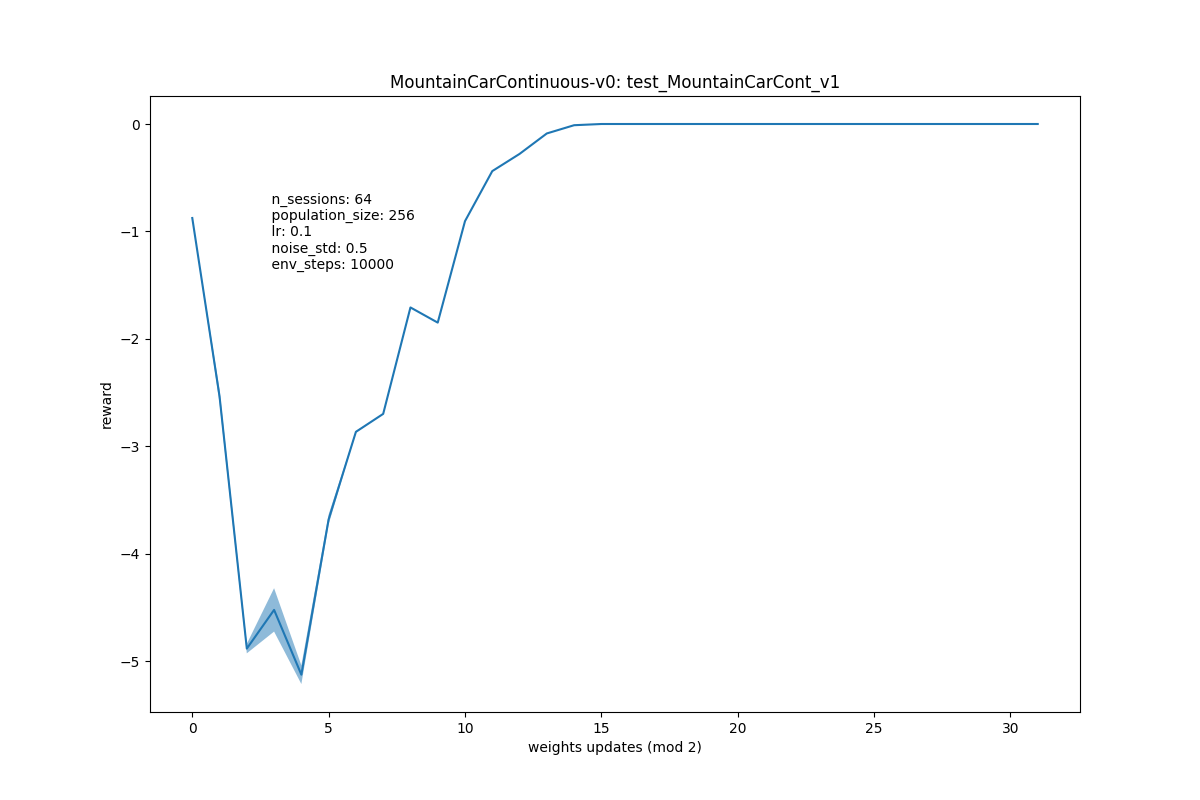
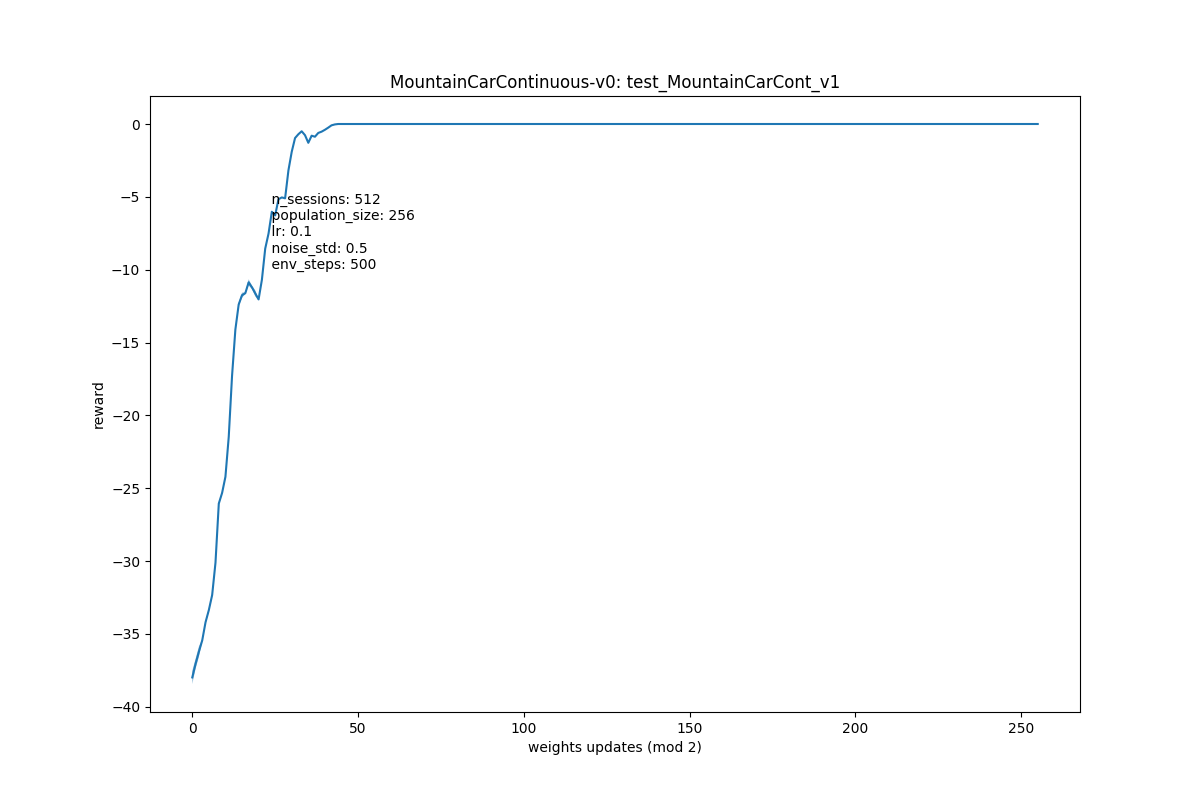
mountain car

diff --git a/evaluation.py b/evaluation.py
@@ -2,20 +2,24 @@ import numpy as np
 
 from joblib import delayed
 
+CONTINUOUS_ENVS = ('LunarLanderContinuous', "MountainCarContinuous", "BipedalWalker")
 
 def eval_policy(policy, env, n_steps=200):
     total_reward = 0
-
+    print(env)
+    
     obs = env.reset()
     for i in range(n_steps):
-        if env.spec._env_name in ('LunarLanderContinuous', "MountainCarContinuous"):
+        if env.spec._env_name in CONTINUOUS_ENVS:
             action = policy.predict(np.array(obs).reshape(1, -1), scale="tanh")
         else:
             action = policy.predict(np.array(obs).reshape(1, -1), scale="softmax")
 
         new_obs, reward, done, _ = env.step(action)
         
-        # if env.spec._env_name == 'MountainCarContinuous': 
+        # if env.spec._env_name == 'MountainCarContinuous':
+        #     reward = reward + 10 * abs(new_obs[1])
+            # TODO: add novelity search reward (https://lilianweng.github.io/lil-log/2019/09/05/evolution-strategies.html)
             # метод потенциалов https://habr.com/ru/company/hsespb/blog/444428/
             # reward = reward + 300 * (0.99 * abs(new_obs[1]) - abs(obs[1]))
 

diff --git a/tests/bipedal_walker.py b/tests/bipedal_walker.py
@@ -1,0 +1,30 @@
+import sys
+import pickle 
+
+sys.path.append('..')
+
+from training import run_experiment
+
+# ISSUE: deepcopy(env) not copy .spec and .spec._env_name, so wait
+def test():
+    test_config = {
+        "experiment_name": "test_BipedalWalker_v1",
+        "plot_path": "../plots/",
+        "model_path": "../models/",
+        "env": "BipedalWalker-v2",
+        "n_sessions": 5,
+        "env_steps": 1600, 
+        "population_size": 256,
+        "learning_rate": 0.05,
+        "noise_std": 0.05,
+        "hidden_sizes": (64, 64)
+    }
+    
+    policy = run_experiment(test_config, n_jobs=2)
+
+    with open(f"{test_config['model_path']}{test_config['experiment_name']}.pkl", "wb") as file:
+        pickle.dump(policy, file)
+
+
+if __name__ == "__main__":
+    test()

diff --git a/tests/mountain_car_cont.py b/tests/mountain_car_cont.py
@@ -6,14 +6,15 @@ sys.path.append('..')
 from training import run_experiment
 
 # MountainCar-v0 defines "solving" as getting average reward of -110.0 over 100 consecutive trials.
+# TODO: wait for novelity search
 def test():
     test_config = {
-        "experiment_name": "test_MountainCarCont_v1",
+        "experiment_name": "test_MountainCarCont_v2",
         "plot_path": "../plots/",
         "model_path": "../models/",
         "env": "MountainCarContinuous-v0",
-        "n_sessions": 512,
-        "env_steps": 500, 
+        "n_sessions": 128,
+        "env_steps": 200, 
         "population_size": 256,
         "learning_rate": 0.1,
         "noise_std": 0.5,

diff --git a/training.py b/training.py
@@ -6,6 +6,7 @@ import numpy as np
 
 from tqdm import tqdm
 from joblib import Parallel
+from copy import copy
 from collections import defaultdict
 
 from gym import wrappers

diff --git a/README.md b/README.md
@@ -1,11 +1,12 @@
 # Evolution Strategies OpenAI
 
-Implementation is strictly for educational purposes, not distributed and not very effitient (yet), but it works.
-
+Implementation is strictly for educational purposes and not distributed (as in paper), but it works.
 
 ## Experiments
 
 ### CartPole
+
+Solved quickly and easily, especially if the population size is increased. However it is necessary to control the learning rate: it is better to put it less, as well as noise std: in this task there is no need to explore, it is enough to get a lot of feedback as a reward for natural gradient estimation. 
 
 <p float="left">
   <img src="plots/test_CartPole_v1.png" width="360" />
@@ -14,6 +15,8 @@ Implementation is strictly for educational purposes, not distributed and not ver
 
 ### LunarLander
 
+As in the previous task, the algorithm is doing well, it is also important to set a small learning rate, but slightly increase nose std. 
+
 <p float="left">
   <img src="plots/test_LunarLander_v3.png" width="360" />
   <img src="plots/gifs/best_lunar.gif" width="360" /> 
@@ -21,43 +24,62 @@ Implementation is strictly for educational purposes, not distributed and not ver
 
 ### LunarLanderContinuous
 
+Continuous env is solved much faster and better, probably at the expense of more dense reward. It is also interesting that here the agent has learned to land faster, not to turn on the engines immediately, but only before landing. 
+
 <p float="left">
   <img src="plots/test_LunarLanderCont_v1.png" width="360" />
   <img src="plots/gifs/best_lunar_cont.gif" width="360" /> 
 </p>
 
+### MountainCarContinuous
+
+Сan't solve it yet.   
+
+In the discrete version of env, the main problem is sparse reward, which is only given at the very end if you climb a hill. Since the agent does not have time for 200 iterations with the random weights to do so, the natural gradient turns out to be zero and the training is in place. Solution: remove the 200 iteration limit and wait for the random agent to climb the mountain himself, getting the first reward :). However, this is not quite fair.   
+
+In continuous env, the main problem is the lack of exploration. The agent quickly (faster than climbing the hill) realizes that the best way is to stand still and get 0 reward, which is much higher than when moving.
+
+<p float="left">
+  <img src="plots/test_MountainCarCont_v1.png" width="360" />
+  <img src="plots/gifs/best_mountain_car_cont.gif" width="360" /> 
+</p>
+
+Possible solution: novelity search. As a novelity function it is possible to take velocity, velocity * x_coord, or x_coord at the end of episode. [Reward shaping](https://people.eecs.berkeley.edu/~pabbeel/cs287-fa09/readings/NgHaradaRussell-shaping-ICML1999.pdf) may improve convergence for DQN/CEM methods, but in this case it does not produce positive results.
+
+
+## Implemented
+
+- [x] OpenAI ES algorithm [Algorithm 1].
+- [x] Z-normalization fitness shaping (not rank-based).
+- [x] Parallelization with joblib.
+- [x] Training for 6 OpenAI gym envs (3 solved).
+- [x] Simple three layer net as policy example.
+
+![Algorithm_1](plots/algo_code.png)
 
 ## TODO
 
-- parallelization (!!!)
-
-- weight decay (noise std decay???)
-- rank transformation 
-- mirrored sampling
-- adam
-- batch norm
-- skip frames
+- [ ] [Novelity search.](https://lilianweng.github.io/lil-log/2019/09/05/evolution-strategies.html) 
+- [ ] [Learning rate & noise std decay.](https://towardsdatascience.com/learning-rate-schedules-and-adaptive-learning-rate-methods-for-deep-learning-2c8f433990d1)  
+- [ ] Mirrored sampling.
+- [ ] Better gradient steps: Adam.
+- [ ] Wrap CarRacing env, add images preprocessing (frame skip, grayscale, downgrade)
 
 ## TODO ENVS
 
 - [x] CartPole   
-- [ ] CarRacing      
 - [x] LunarLander   
-- [ ] LunarLanderContinuous
-
-Cannot solve, sparse rewards + random
-- [ ] MountainCar (hard)     
-- [ ] Taxi & FrozenLake (hard)
+- [x] LunarLanderContinuous
+- [ ] MountainCarContinuous
+- [ ] BipedalWalker-v2
+- [ ] CarRacing
 
 <!-- ## Ideas
 
 skip frames - https://notanymike.github.io/Solving-CarRacing/, https://danieltakeshi.github.io/2016/11/25/frame-skipping-and-preprocessing-for-deep-q-networks-on-atari-2600-games/, https://github.com/openai/baselines/blob/master/baselines/common/atari_wrappers.py (NB!, class MaxAndSkipEnv(gym.Wrapper) and class WarpFrame(gym.ObservationWrapper)), https://alexandervandekleut.github.io/gym-wrappers/
 noise/lr annealing - https://cs231n.github.io/neural-networks-3/#anneal,  https://arxiv.org/pdf/1608.03983.pdf, https://towardsdatascience.com/learning-rate-schedules-and-adaptive-learning-rate-methods-for-deep-learning-2c8f433990d1
 
-
- 
-- добавить инициализацию модели с уже обученных весов и попробовать решить несколько сред сразу
-- for parallel (exampler interface): es.eval_population(npop) -> updates -> es.update_population(updates) -->
+- добавить инициализацию модели с уже обученных весов и попробовать решить несколько сред сразу -->
 <!-- функция берет модель, рандомно меняет веса, прогоняет, получает ревард и возвращает апдйет весов сразу -> легче параллелить,
  чем если отдельно генерировать сначала популяцию, потом ее отдельно прогонять, а потом уже апдейтить -->
 
